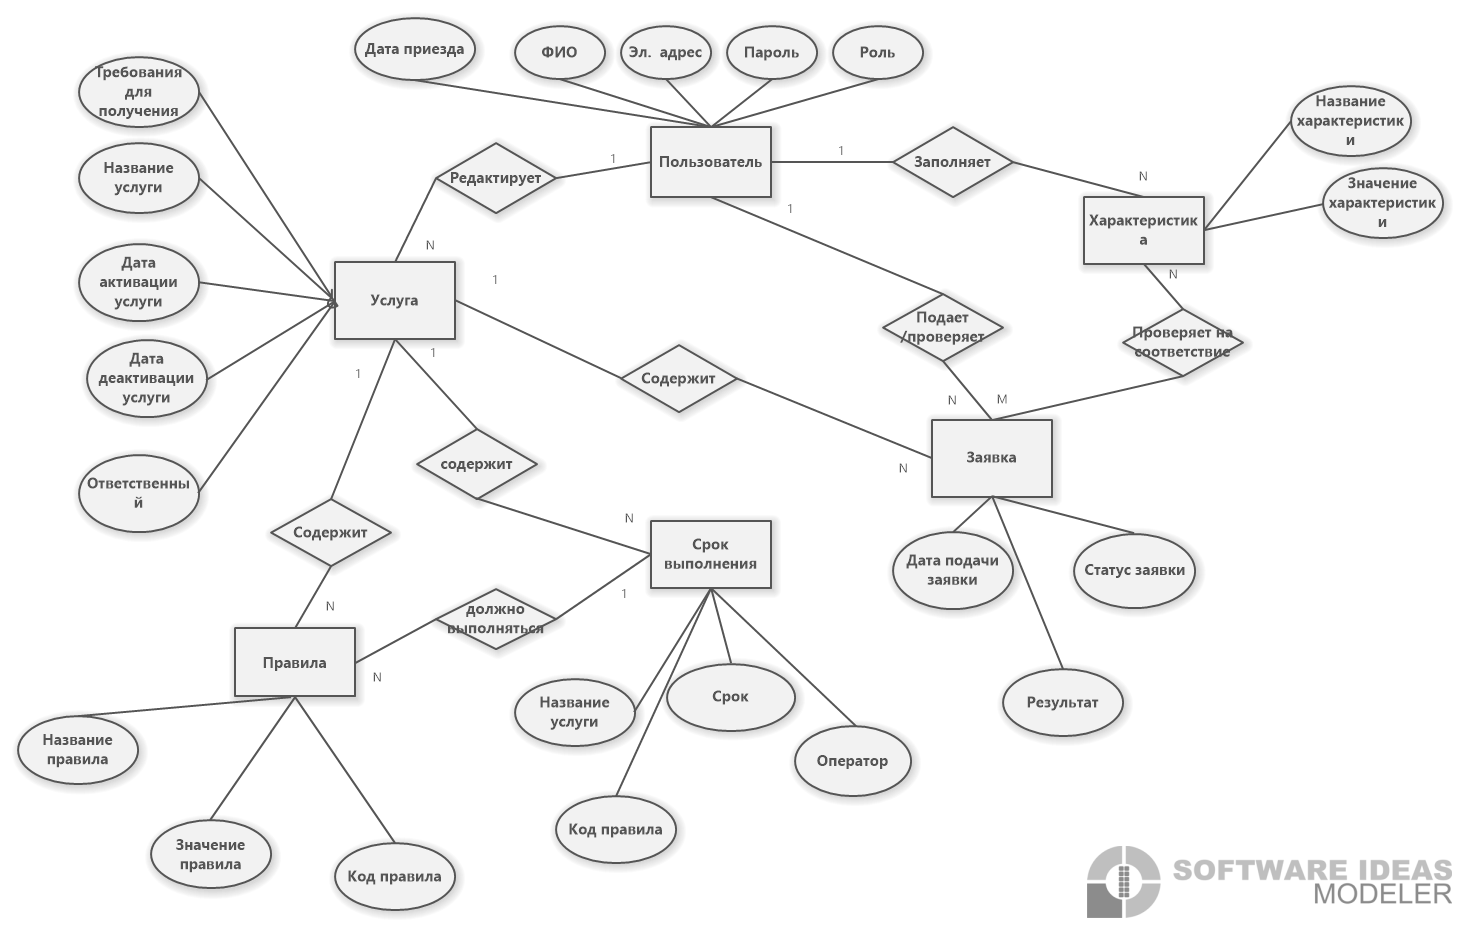
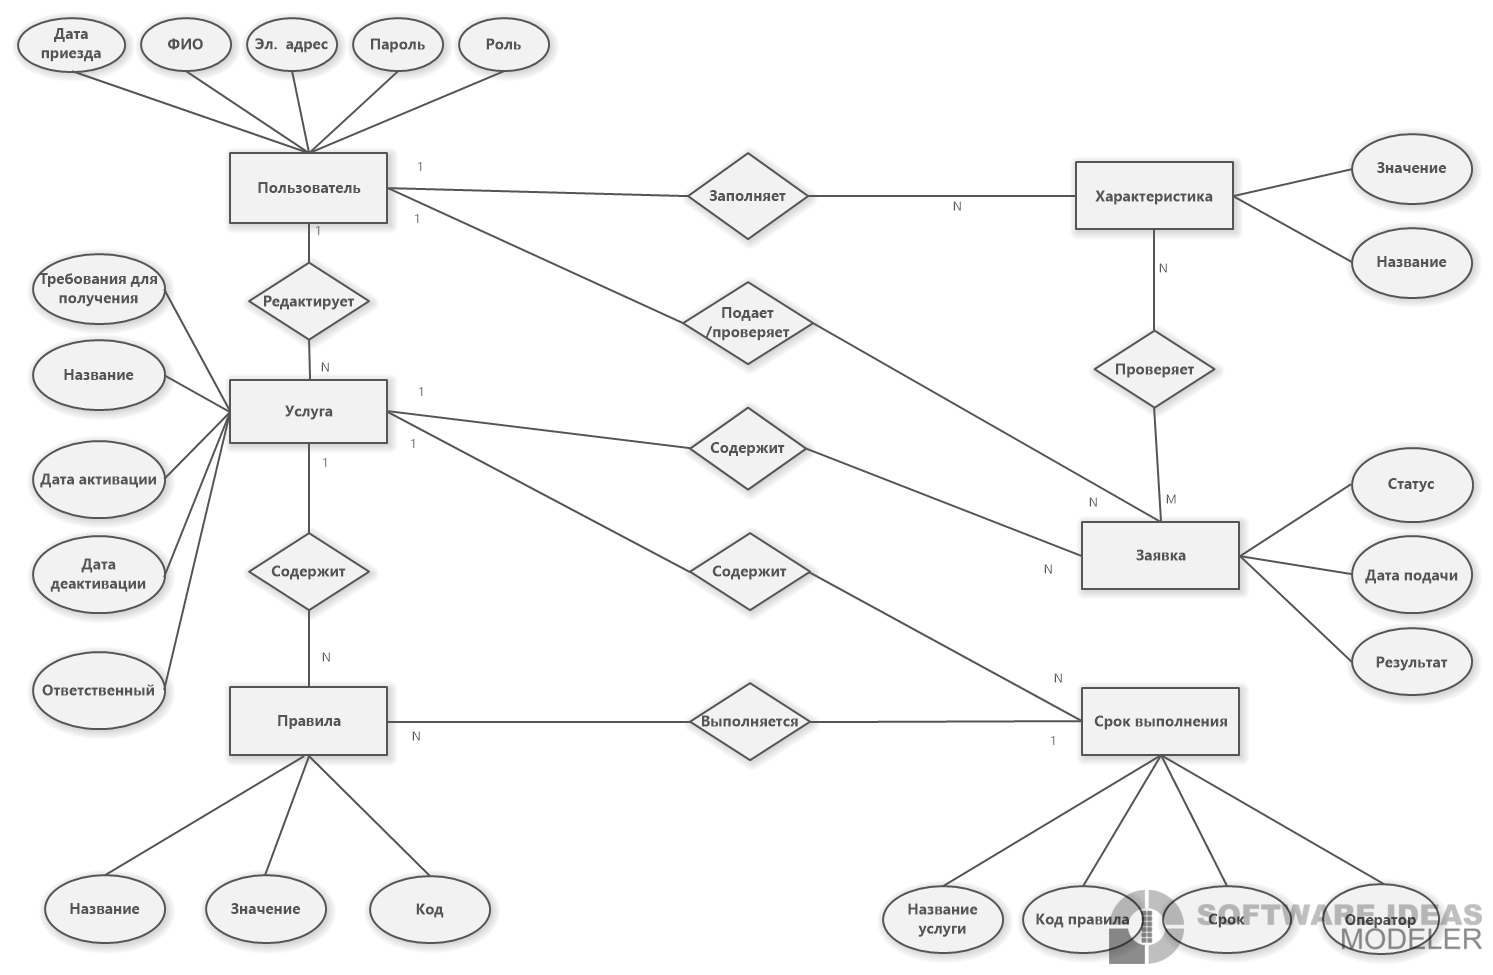
new

diff --git a/Диаграмма ERD/ЛБ 2.md b/Диаграмма ERD/ЛБ 2.md
@@ -15,28 +15,28 @@
 
 ## Заявка -  сущность, которая включает в себя информацию о заявке на выполнение услуги, которую подал пользователь, ее может проверять госсужащий
 ### Атрибуты
-- Дата подачи заявки -  когда пользователь подал заявку, чтобы в будущем высчитывать сроки
-- Статус заявки -  рассматривается/отменена-выполнено
+- Дата подачи -  когда пользователь подал заявку, чтобы в будущем высчитывать сроки
+- Статус -  рассматривается/отменена-выполнено
 - Результат-  текст с результатом рассмотрения заявки
 
 ## Услуга -  сущность, которая включает в себя информацию о всех услугах, админ может менять и создавать новые услуги
 ### Атрибуты
-- Название услуги - что именно в будущем будет получать пользователь
+- Название - что именно в будущем будет получать пользователь
 - Требования для получения - куда должен будет обратиться граждан, чтобы выполнить услугу
-- Дата активации услуги -  дата, когда услуга стала действительна
-- Дата деактивации услуги -  дата, когда услуга стала недействительна
+- Дата активации -  дата, когда услуга стала действительна
+- Дата деактивации -  дата, когда услуга стала недействительна
 - Ответственный -  ФИО госсужащего, который несет ответственность за проверку услуги
 
 ## Характеристика -сущность, в которой  будут храниться вся дополнительная информация о гражданине, например, гражданство,уровень квалификации, участие в гос.программе
 ### Атрибуты
-- Название характеристики -  атрибут включает в себя такие названия как "Гражданство", "Квалификация",  "Цель приезда" и тд.
-- Значение характеристики - атрибут, в котором будут заполняться значения характеристик пользователя
+- Название -  атрибут включает в себя такие названия как "Гражданство", "Квалификация",  "Цель приезда" и тд.
+- Значение - атрибут, в котором будут заполняться значения характеристик пользователя
 
 ## Правила - сущность,  в которой будет записываться весь возможный набор правил
 ### Атрибуты
-- Название правила - например, "Гражданство", "Цель въезда"
-- Значение правила - например, "Узбекистан", "Трудоустройство"
-- Код правила - уникальный код, по которому будет позже определяться сроки
+- Название - например, "Гражданство", "Цель въезда"
+- Значение - например, "Узбекистан", "Трудоустройство"
+- Код - уникальный код, по которому будет позже определяться сроки
 
 ## Срок выполнения - сущность, в которой будет определяться по правилу время в течение которого нужно получить услугу
 ### Атрибуты
